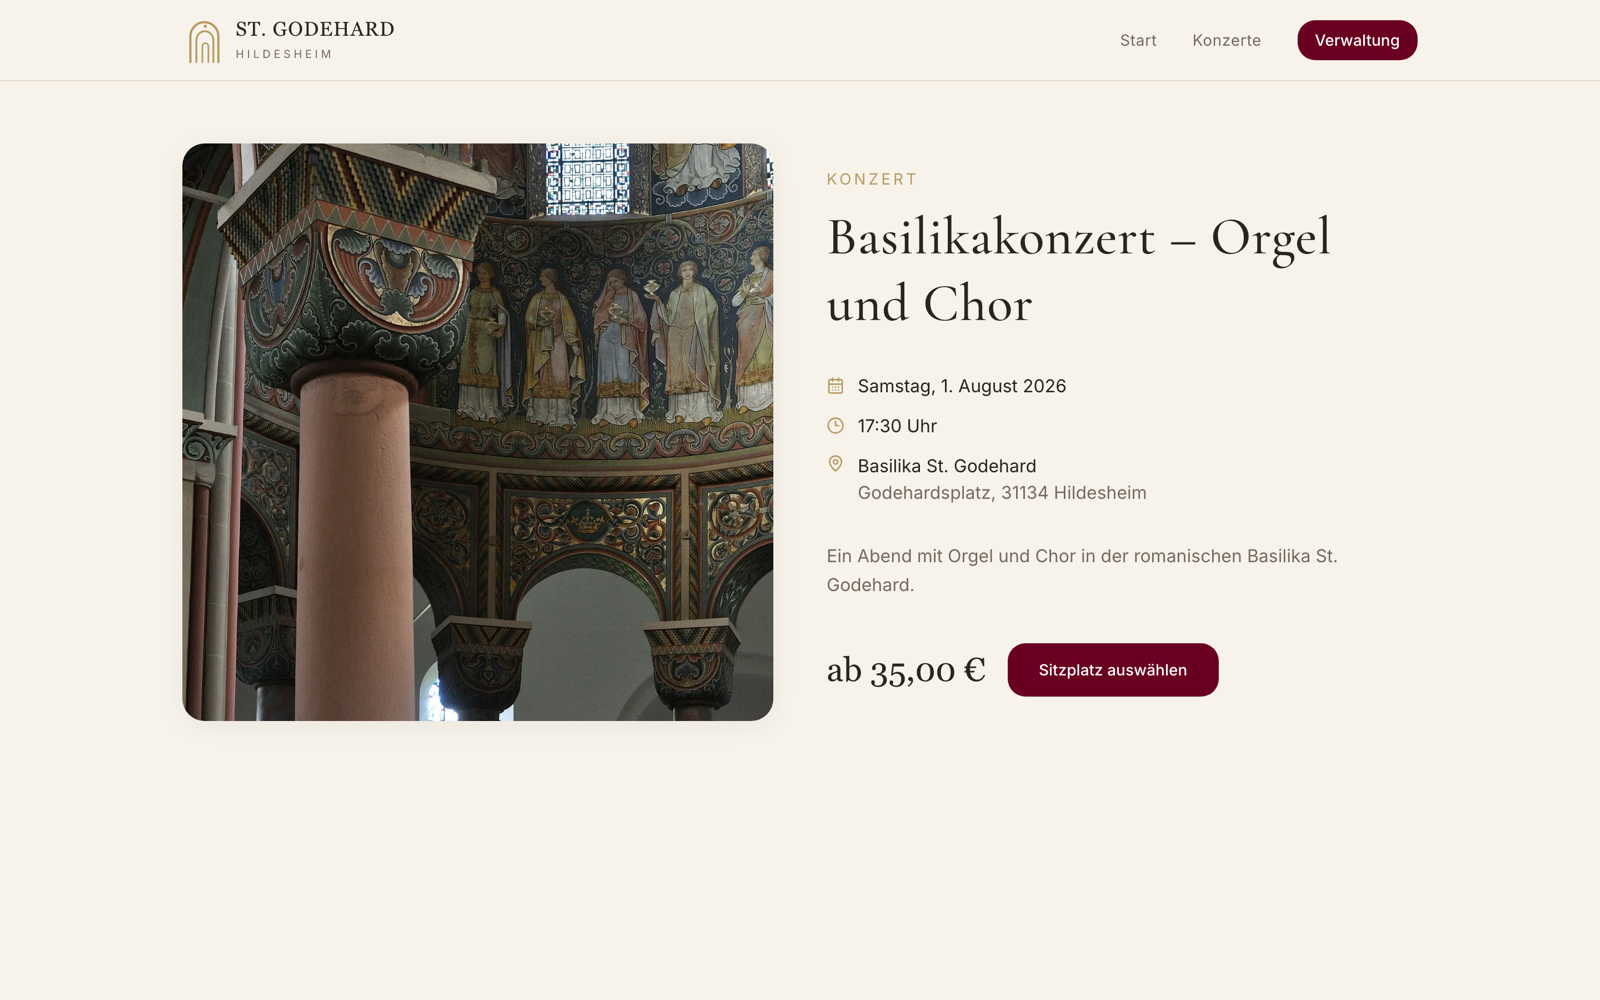
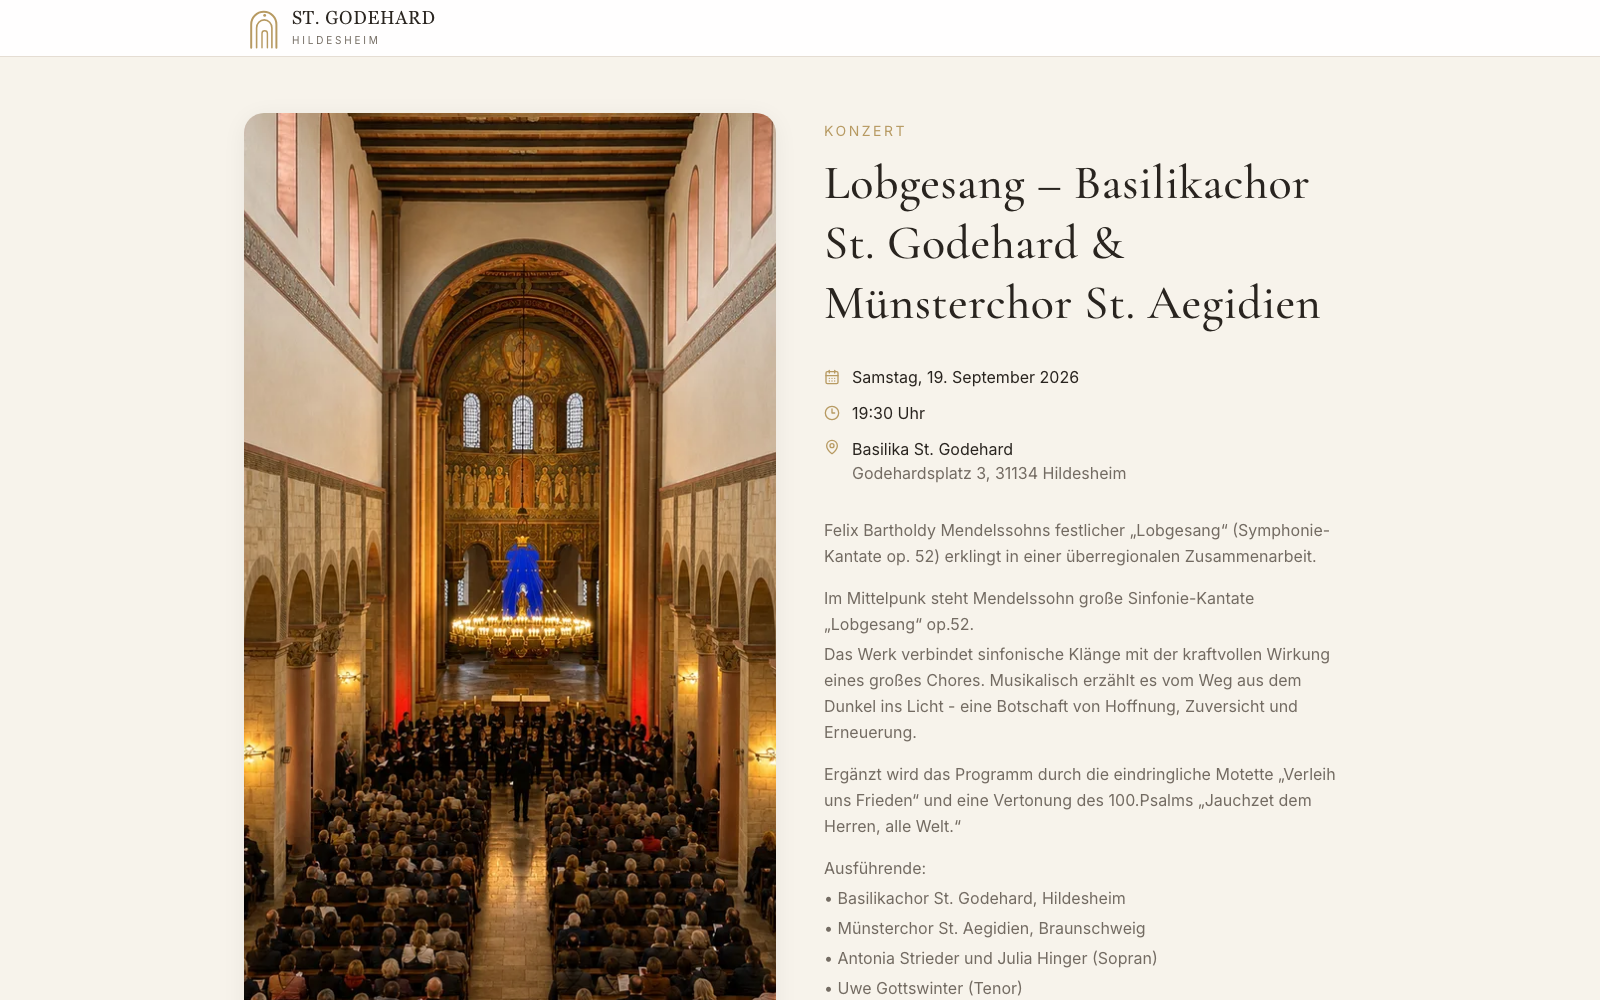
feat: point NavisSedes to St. Godehard live site with fresh screenshots

diff --git a/src/data/projects.ts b/src/data/projects.ts
@@ -66,7 +66,7 @@ const projectDefs: ProjectBase[] = [
     gallery: ['/navissedes.jpg', '/navissedes-seats.png', '/navissedes-event.png'],
     tech: ['Next.js', 'Prisma', 'Neon', 'Stripe', 'Playwright', 'Vitest'],
     github: 'https://github.com/CH4692/NavisSedes',
-    live: 'https://navissedes.charlesheller.dev/',
+    live: 'https://konzerte.st-godehard-hildesheim.de/',
     image: '/navissedes-seats.png',
     heroImage: '/navissedes.jpg',
     accent: '#6b1a2e',
